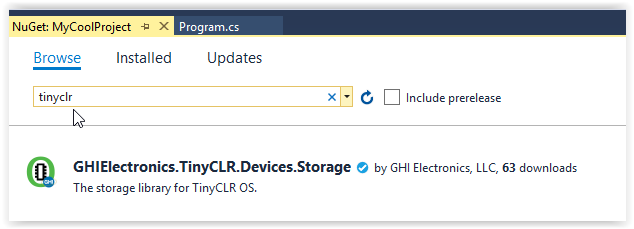
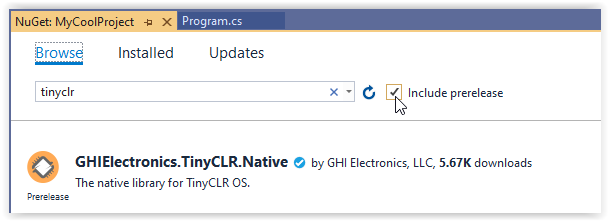
Updated Getting Started tutorial.

Changed region(s): [[0.0, 0.0271, 0.9984, 0.9502]]

diff --git a/software/tinyclr/getting-started.md b/software/tinyclr/getting-started.md
@@ -2,7 +2,8 @@
 ---
 ![Getting Started](images/getting-started-noborder.jpg)
 
-This page explains how to set up the TinyCLR programming environment.  It covers device and computer setup and deployment of a "hello world" program.
+This page explains how to set up the TinyCLR programming environment.  It covers device and computer setup and deployment of a "hello world" program to a SITCore device.
+
 > [!Tip]
 > If you're an existing user of NETMF and still want to use it in addition to TinyCLR OS, don't worry. TinyCLR is completely independent of NETMF and works side-by-side with no issues.
 
@@ -14,17 +15,20 @@ To use TinyCLR with a device you must first install the latest version of the Ti
 
 The TinyCLR firmware includes the Common Language Runtime (CLR) which converts compiled code into machine instructions and manages program execution.  The TinyCLR firmware is also responsible for interacting with Microsoft Visual Studio to load and debug your application programs.
 
-Use the [TinyCLR Config](tinyclr-config.md) tool to update the firmware on your device.
+Use the [TinyCLR Config](tinyclr-config.md) tool to update the firmware on your device to the latest version.
 
 ## Development Machine Setup
 
-1. If you don't already have Visual Studio 2019, download and install one of the editions, including the free community edition: [Visual Studio Community 2019](https://www.visualstudio.com/downloads/). You can also use other editions as well.
+1. If you don't already have Visual Studio 2019, download and install one of the latest editions. Any edition will work, including the free community edition: [Visual Studio Community 2019](https://www.visualstudio.com/downloads/).
 2. Make sure to select the `.NET desktop development` workload when installing Visual Studio.
-3. Download and install the newest TinyCLR Visual Studio Project System by going to `Tools` > `Extensions and Updates...`. In the `Extensions and Updates` dialog box select `Online` in the left panel. Type `tinyclr` into the `Search` text box in the upper right of the window to search for and install the `TinyCLR OS Project System`. You'll need to restart Visual Studio to let the extension installer complete the installation.
-    ![Install TinyCLR Extension](images/install-tinyclr-extension.gif)
+3. Download and install the newest TinyCLR Visual Studio Project System by going to `Extensions` > `Manage Extensions`. In the `Manage Extensions` dialog box select `Online` in the left panel. Type `tinyclr` into the `Search` text box in the upper right of the window to search for and install the `TinyCLR OS Project System`. You'll need to restart Visual Studio to let the extension installer complete the installation.
+
+    Alternately you can download the Visual Studio Project System from our [Downloads](downloads.md) page and open or double click on the file to install the extension.
 
 > [!Note]
-> Pre-releases of the Project System are not hosted online but found on the [**Downloads**](downloads.md) page.
+> Pre-releases of the Project System are not hosted online but are found on the [**Downloads**](downloads.md) page.
+
+![Install TinyCLR Extension](images/install-tinyclr-extension.gif)
 
 ## Starting a New Project
 
@@ -87,7 +91,7 @@ Congratulations!  You're on your way to becoming a TinyCLR embedded developer!
 
 NuGet packages are typically hosted online on www.NuGet.org. 
 
-The steps below explain how to add onlione-hosted NuGet libraries to your project. If you are using a pre-release, the libraries must be [downloaded](downloads.md) and installed as a local feed.
+The steps below explain how to add online-hosted NuGet libraries to your project. If you are using a pre-release, the libraries must be [downloaded](downloads.md) and installed as a local feed.
 
 1. Start Visual Studio and create a new `TinyCLR Application` under `C# > TinyCLR`. New to Visual Studio or C#? Take a look at the [getting started guide from Microsoft](https://docs.microsoft.com/en-us/dotnet/csharp/getting-started/with-visual-studio).
 2. Right click on your Project in the Solution Explorer panel and select `Manage NuGet Packages`.  If the Solution Explorer window is not visible, open it by selecting `Solution Explorer` in the `View` menu. You can also select `Manage NuGet Packages...` in the `Project` menu of Visual Studio.
@@ -96,23 +100,22 @@ The steps below explain how to add onlione-hosted NuGet libraries to your projec
 3. Make sure the package source is set to "Package source" or "All."
 ![Set package source](images/package-source.png)
 
-4. In the search box type "tinyclr"
+4. In the search box type "tinyclr." **You may have to check the "Include prerelease" box to find the libraries.**
 ![Search for TinyCLR](images/search-for-tinyclr.png)
-
-5. Selecting the `Browse` tab will show all the TinyCLR NuGet packages. Those installed are noted with a green down arrow in front of the name. 
-![Browse NuGet Feed](images/browse-nuget-feed.gif)
+5. Selecting the `Browse` tab will show all the TinyCLR NuGet packages.
+![Browse NuGet Feed](images/browse-nuget-feed.png)
 
 6. To install one of the packages click on the down arrow to the right of the package version.
-![Add Nuget Package](images/add-nuget-package.gif)
+![Add Nuget Package](images/add-nuget-package.png)
 
 You can also select the package and click on the `Install` button in the center panel.
-![Nuget-package-install-button](images/nuget-install-button.gif)
+![Nuget-package-install-button](images/nuget-install-button.png)
 
 7. Click `OK` to accept the proposed changes.
-![Accept changes](images/accept-changes.gif)
+![Accept changes](images/accept-changes.png)
 
 8. Accept the licensing agreement to install the package.
-![Accept Agreement for NuGet](images/accept-agreement-for-nuget.gif)
+![Accept Agreement for NuGet](images/accept-agreement-for-nuget.png)
 
 > [!Note]
 > Pre-release libraries are not hosted on NuGet.org, use the local feed feature to fetch the needed libraries from your local machine, found on the [**Downloads**](downloads.md) page.
